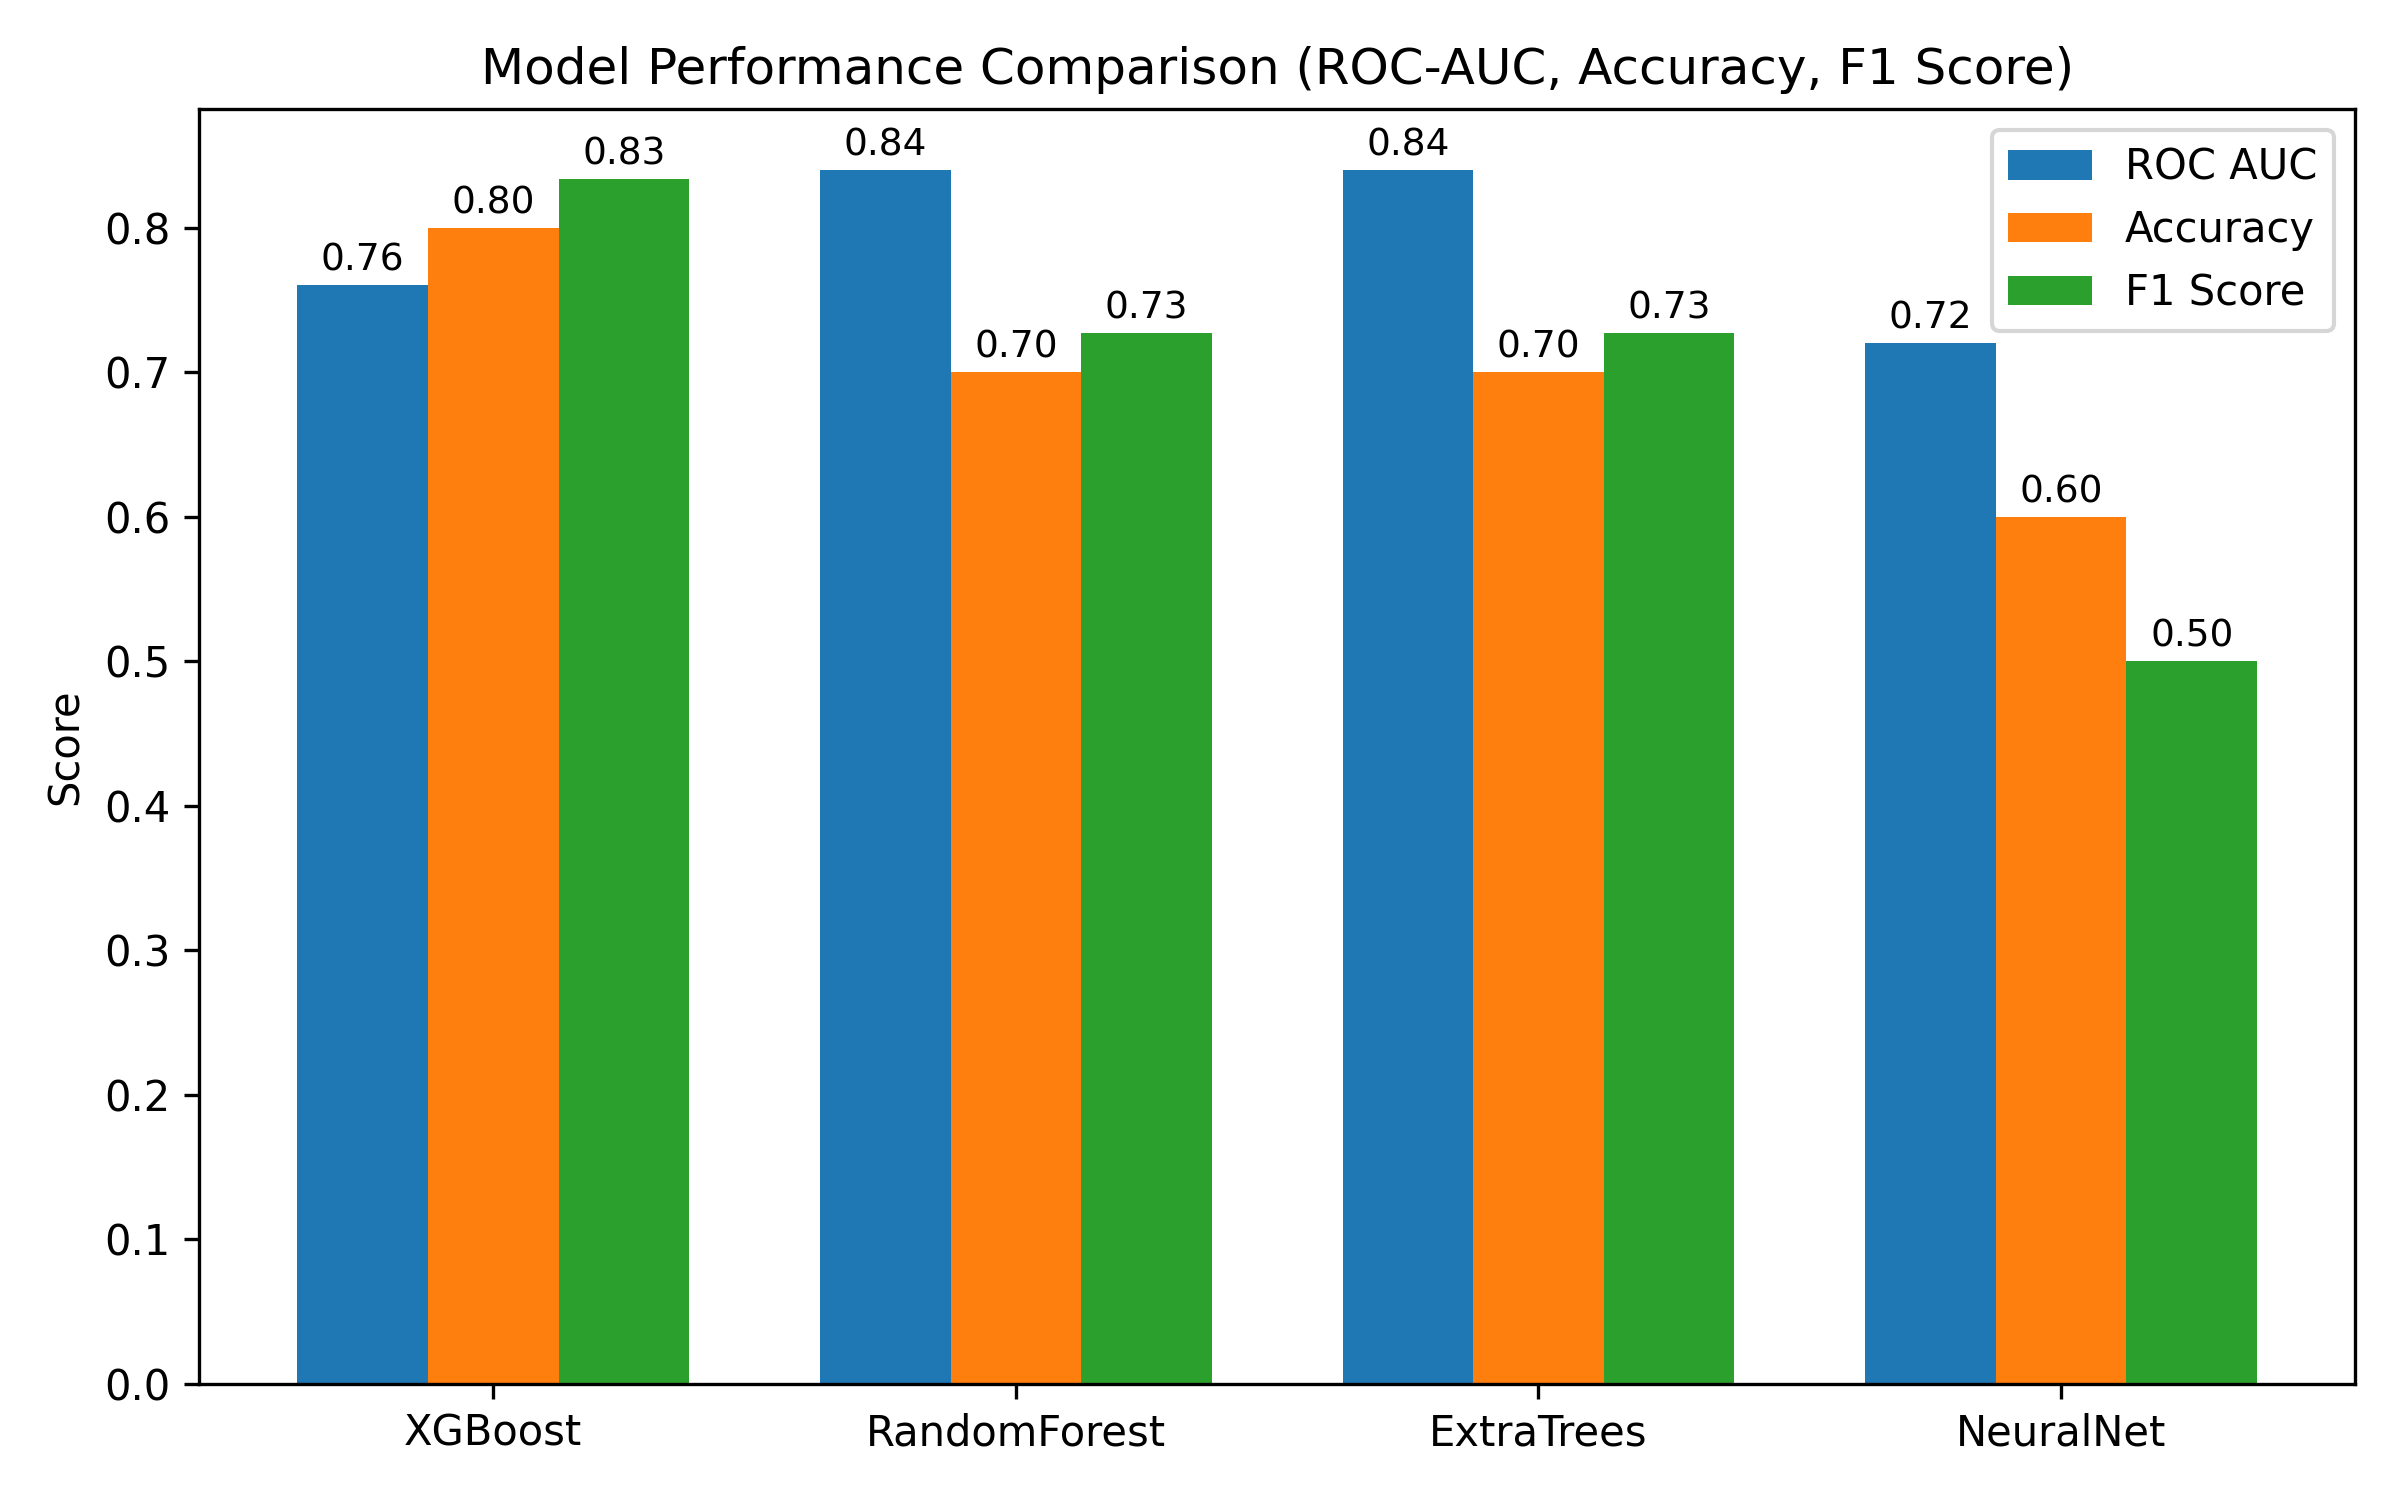
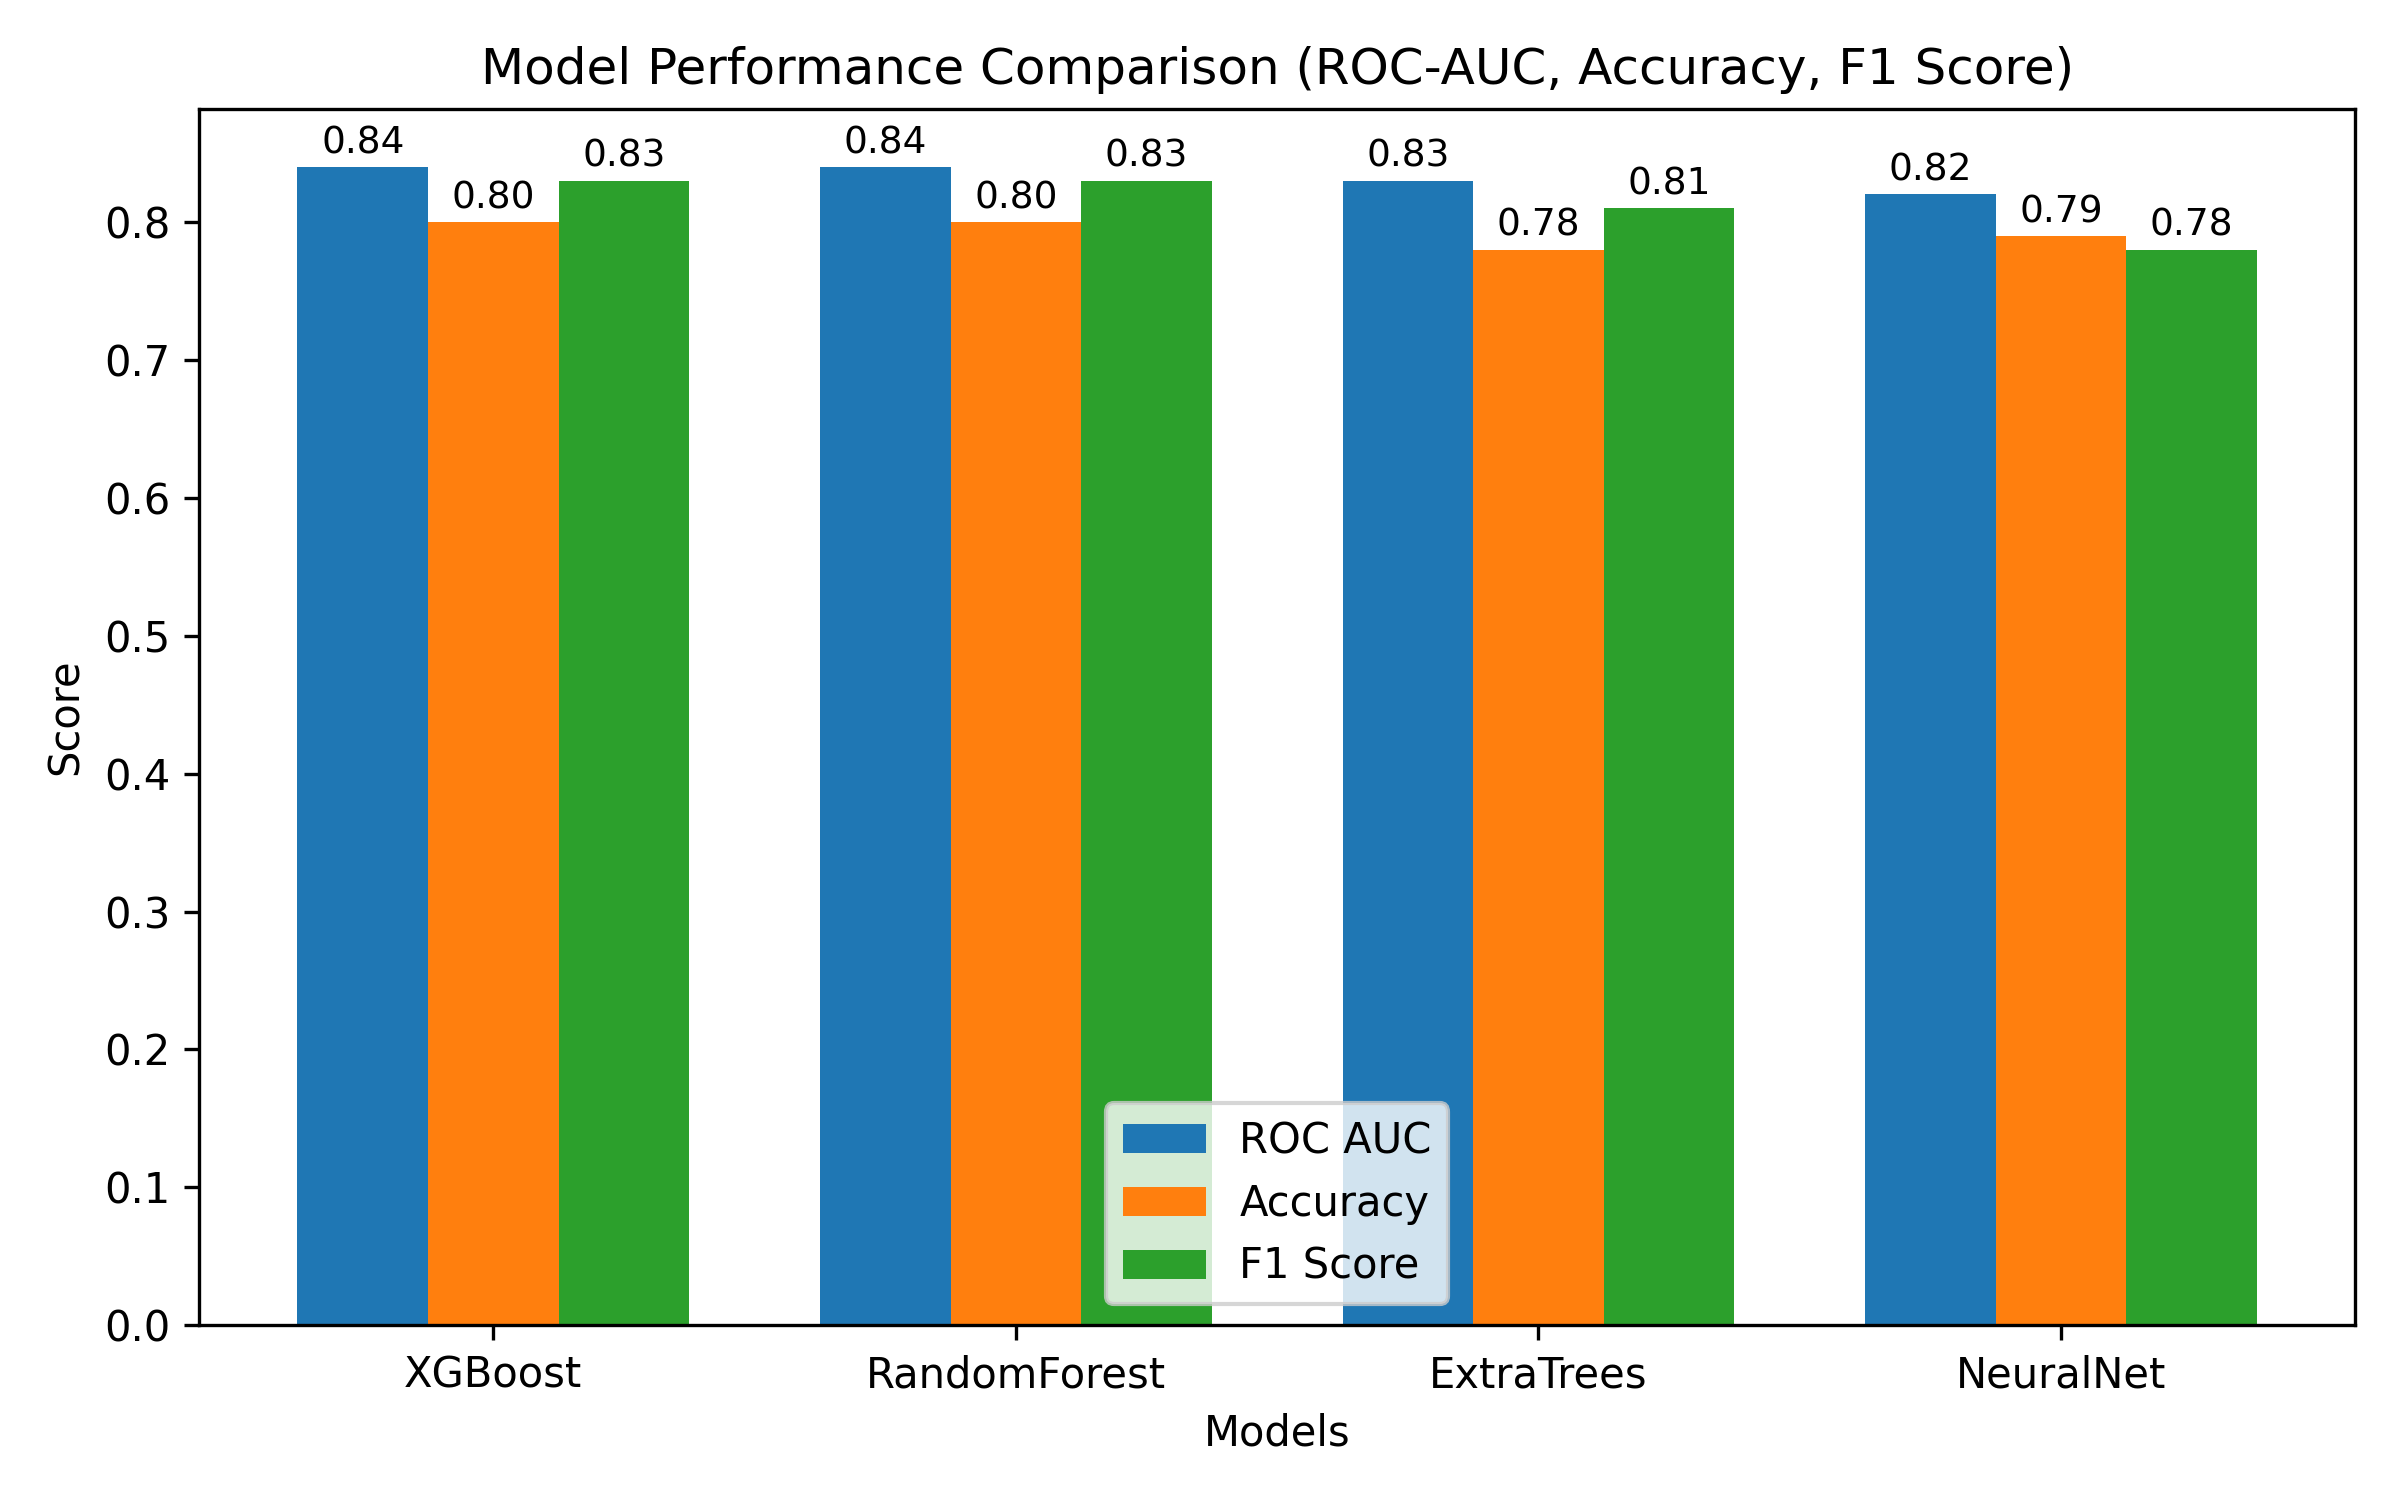
f

diff --git a/frontend/index.html b/frontend/index.html
@@ -227,64 +227,22 @@
         
         <div class="container-inner">
             <div class="glass-panel text-center">
-                <h3>Benchmark Results</h3>
-                <p class="mt-4 mb-6">
-                    We trained a suite of state-of-the-art models on our curated dataset. <strong>Random Forest</strong> and <strong>Extra Trees</strong> 
-                    yielded the highest ROC AUC, making them exceptionally reliable for discriminating between toxic and safe compounds.
-                </p>
-                <div class="graph-container">
-                    <img src="model_comparison.png" alt="Model Comparison Graph" style="max-width: 100%; border-radius: 8px; border: 1px solid var(--card-border); margin-bottom: 2rem;">
-                </div>
-
-                <div class="metrics-table-container">
-                    <table class="metrics-table">
-                        <thead>
-                            <tr>
-                                <th>Architecture</th>
-                                <th>ROC AUC</th>
-                                <th>Accuracy</th>
-                                <th>F1 Score</th>
-                            </tr>
-                        </thead>
-                        <tbody>
-                            <tr>
-                                <td>XGBoost</td>
-                                <td>0.84</td>
-                                <td>0.80</td>
-                                <td>0.83</td>
-                            </tr>
-                            <tr>
-                                <td>Random Forest</td>
-                                <td>0.84</td>
-                                <td>0.80</td>
-                                <td>0.83</td>
-                            </tr>
-                            <tr>
-                                <td>Extra Trees</td>
-                                <td>0.83</td>
-                                <td>0.78</td>
-                                <td>0.81</td>
-                            </tr>
-                            <tr>
-                                <td>Neural Network</td>
-                                <td>0.82</td>
-                                <td>0.79</td>
-                                <td>0.78</td>
-                            </tr>
-                        </tbody>
-                    </table>
-                </div>
-
-                <div class="visuals-grid mt-10">
-                    <div class="visual-card">
-                        <label>Receiver Operating Characteristic (ROC)</label>
-                        <img src="final_roc_curve.png" alt="ROC Curve" class="model-graph">
-                        <p class="graph-caption">Area Under Curve (AUC) of 0.84 indicates high discriminatory power between toxic and safe compounds.</p>
+                <div class="performance-gallery">
+                    <div class="gallery-item full-width">
+                        <label>Architecture Benchmarking</label>
+                        <img src="final_grouped_bar.png" alt="Model Comparison Bar Chart">
                     </div>
-                    <div class="visual-card">
+                    <div class="gallery-item">
+                        <label>Final Model Metrics</label>
+                        <img src="final_table.png" alt="Performance Metrics Table">
+                    </div>
+                    <div class="gallery-item">
+                        <label>Receiver Operating Characteristic</label>
+                        <img src="final_roc_curve.png" alt="ROC Curve">
+                    </div>
+                    <div class="gallery-item">
                         <label>Confusion Matrix</label>
-                        <img src="final_confusion_matrix.png" alt="Confusion Matrix" class="model-graph">
-                        <p class="graph-caption">The matrix demonstrates high sensitivity in identifying positive toxicity cases, which is critical for drug safety screening.</p>
+                        <img src="final_confusion_matrix.png" alt="Confusion Matrix">
                     </div>
                 </div>
             </div>

diff --git a/frontend/style.css b/frontend/style.css
@@ -1160,3 +1160,51 @@ input:focus {
     }
 }
 
+
+/* Performance Gallery */
+.performance-gallery {
+    display: grid;
+    grid-template-columns: 1fr 1fr;
+    gap: 2rem;
+    margin-top: 1rem;
+}
+
+.gallery-item {
+    background: rgba(255, 255, 255, 0.02);
+    padding: 1.5rem;
+    border-radius: 12px;
+    border: 1px solid var(--card-border);
+    transition: transform 0.3s ease;
+}
+
+.gallery-item:hover {
+    transform: translateY(-5px);
+    background: rgba(255, 255, 255, 0.05);
+}
+
+.gallery-item.full-width {
+    grid-column: 1 / -1;
+}
+
+.gallery-item label {
+    display: block;
+    color: var(--accent-primary);
+    font-size: 0.8rem;
+    font-weight: 700;
+    text-transform: uppercase;
+    margin-bottom: 1.5rem;
+    letter-spacing: 0.1rem;
+}
+
+.gallery-item img {
+    width: 100%;
+    height: auto;
+    border-radius: 6px;
+}
+
+@media (max-width: 900px) {
+    .performance-gallery {
+        grid-template-columns: 1fr;
+    }
+}
+

diff --git a/app.py b/app.py
@@ -176,31 +176,27 @@ elif page == "Dashboard":
 
 elif page == "Model Performance":
     st.title("📊 Model Performance")
-    st.markdown("Detailed evaluation of the Stacking Ensemble and benchmarked architectures.")
+    st.markdown("Scientific validation metrics and multi-model benchmarking results.")
     
-    # 1. Comparison Bar Chart
-    if os.path.exists("frontend/model_comparison.png"):
-        st.image("frontend/model_comparison.png", caption="Model Comparison (AUC & Accuracy)", use_container_width=True)
+    # 1. Bar Chart (Wide)
+    if os.path.exists("frontend/final_grouped_bar.png"):
+        st.image("frontend/final_grouped_bar.png", caption="Model Performance Comparison", use_container_width=True)
     
-    # 2. Metrics Table
-    st.markdown("### Benchmark Metrics")
-    metrics_data = {
-        "Architecture": ["XGBoost", "Random Forest", "Extra Trees", "Neural Network"],
-        "ROC AUC": [0.84, 0.84, 0.83, 0.82],
-        "Accuracy": [0.80, 0.80, 0.78, 0.79],
-        "F1 Score": [0.83, 0.83, 0.81, 0.78]
-    }
-    st.table(pd.DataFrame(metrics_data))
+    st.markdown("---")
     
-    # 3. Validation Deep-Dive
-    st.markdown("### Validation Visuals")
+    # 2. Metrics Table Image & ROC Curve
     col1, col2 = st.columns(2)
     with col1:
+        if os.path.exists("frontend/final_table.png"):
+            st.image("frontend/final_table.png", caption="Final Performance Metrics")
+    with col2:
         if os.path.exists("frontend/final_roc_curve.png"):
             st.image("frontend/final_roc_curve.png", caption="Receiver Operating Characteristic")
-    with col2:
-        if os.path.exists("frontend/final_confusion_matrix.png"):
-            st.image("frontend/final_confusion_matrix.png", caption="Confusion Matrix (Validation Set)")
+            
+    # 3. Confusion Matrix
+    st.markdown("---")
+    if os.path.exists("frontend/final_confusion_matrix.png"):
+        st.image("frontend/final_confusion_matrix.png", caption="Confusion Matrix (Validation Set)", width=500)
 
 elif page == "About":
     st.title("📖 About ToxPredict")